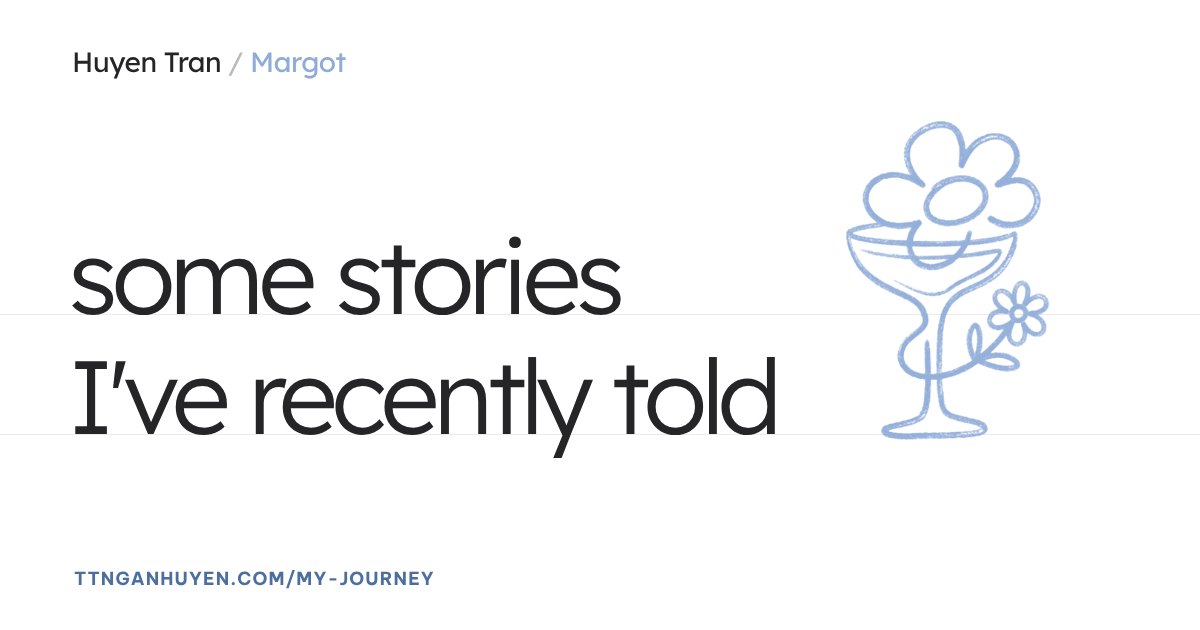
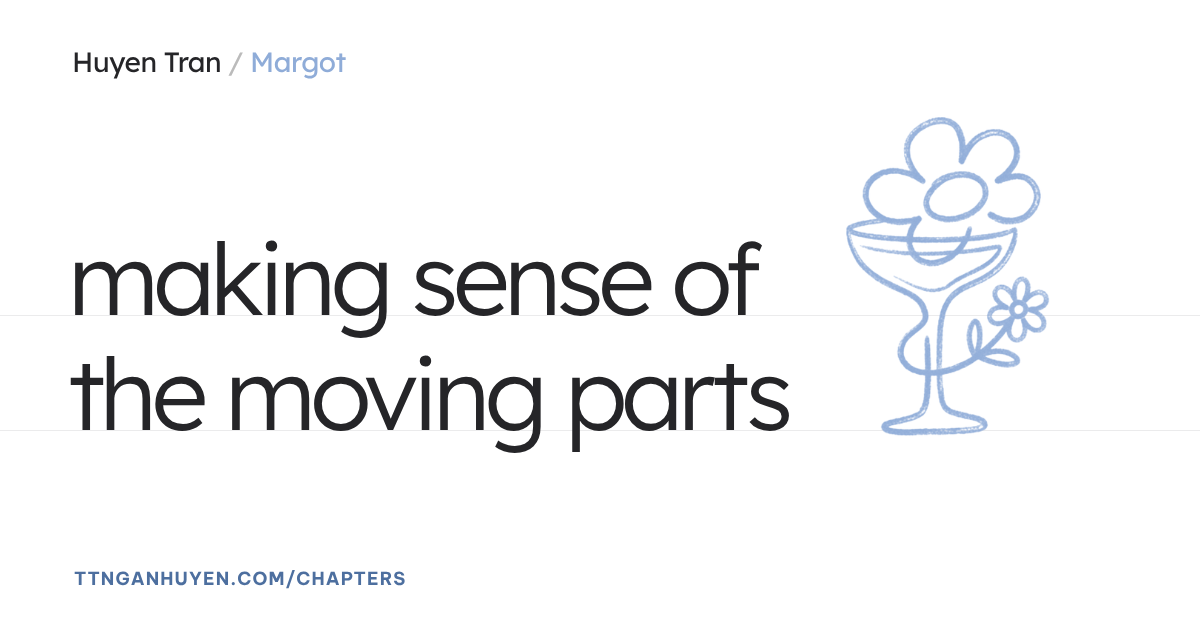
Chapters headline: making sense of the moving parts; redraw its thumbnail
Claude-Session: https://claude.ai/code/session_01V6iSCjwew1B6GQSPLhHT5s

diff --git a/index.html b/index.html
@@ -68,6 +68,7 @@ a { color: inherit; }
 .wk-intro .in { position: relative; }
 .wk-h { font-family: var(--display); font-weight: 400; font-size: clamp(3rem, 9.4vw, 9rem); letter-spacing: -0.055em; line-height: 1.12; margin: 26px 0 0; }
 .wk-h > span { display: block; }
+@media (max-width: 760px) { .wk-h { font-size: min(3rem, 11vw); } .wk-h > span { white-space: nowrap; } }
 .wk-h .cur { height: .8em; vertical-align: -.04em; }
 .wk-scroll { right: 0; bottom: 6px; }
 .wk-list .in { border-top: 1px solid color-mix(in srgb, var(--ink) 14%, transparent); }
@@ -1043,7 +1044,7 @@ the best ones bloom over a drink</p>
   <section class="band wk-intro">
     <div class="in">
       <span class="label">Tracing the dots</span>
-      <h1 class="wk-h" id="wk-h"><span>some stories</span><span>I've recently told<span class="cur"></span></span></h1>
+      <h1 class="wk-h" id="wk-h"><span>making sense of</span><span>the moving parts<span class="cur"></span></span></h1>
       <a class="scroll wk-scroll" href="#wk-list" aria-label="Scroll to the stories"><span>SCROLL</span><i><svg width="14" height="9" viewBox="0 0 14 9" aria-hidden="true"><path d="M1 1l6 6 6-6" fill="none" stroke="currentColor" stroke-width="1.5"/></svg></i></a>
     </div>
   </section>

diff --git a/CLAUDE.md b/CLAUDE.md
@@ -45,7 +45,7 @@ Khẩu hiệu: "consulting by day, blooming by night".
 | Hash | View | Nội dung |
 | --- | --- | --- |
 | `#/me` (hoặc `#/`) | `v-home` | Trang About (trang chủ), chi tiết ở phần dưới |
-| `#/chapters` | `v-work` | Danh sách vị trí, chỉ có chữ, lấy từ mảng `WORK`. Chưa có ảnh hay logo, sau này sẽ thêm output từng dự án |
+| `#/chapters` | `v-work` | Nhãn "Tracing the dots", tiêu đề "making sense of / the moving parts" (Margot viết 26.10.2026; thumbnail `img/og-my-journey.png` đã vẽ lại). Danh sách vị trí, chỉ có chữ, lấy từ mảng `WORK`. Chưa có ảnh hay logo, sau này sẽ thêm output từng dự án |
 | `#/chapters/<id>` | `v-case` | Trang chi tiết, `fillCase(id)` lấy dữ liệu từ `WORK`: tên đơn vị, năm, vai trò, các đoạn `p`, năng lực `caps`, các slide tạm `slides` |
 | `#/cases` | `v-consulting` | Nhãn "In practice", tiêu đề "putting the pieces / together" (Margot viết 26.10.2026, bỏ đoạn mô tả bên dưới; thumbnail `img/og-use-cases.png` đã vẽ lại theo tiêu đề này): 01 Strategy, 02 Data, 03 Process |
 | `#/words` | `v-stories` | Trang blog ("coming soon", nút Follow me on Instagram) |
